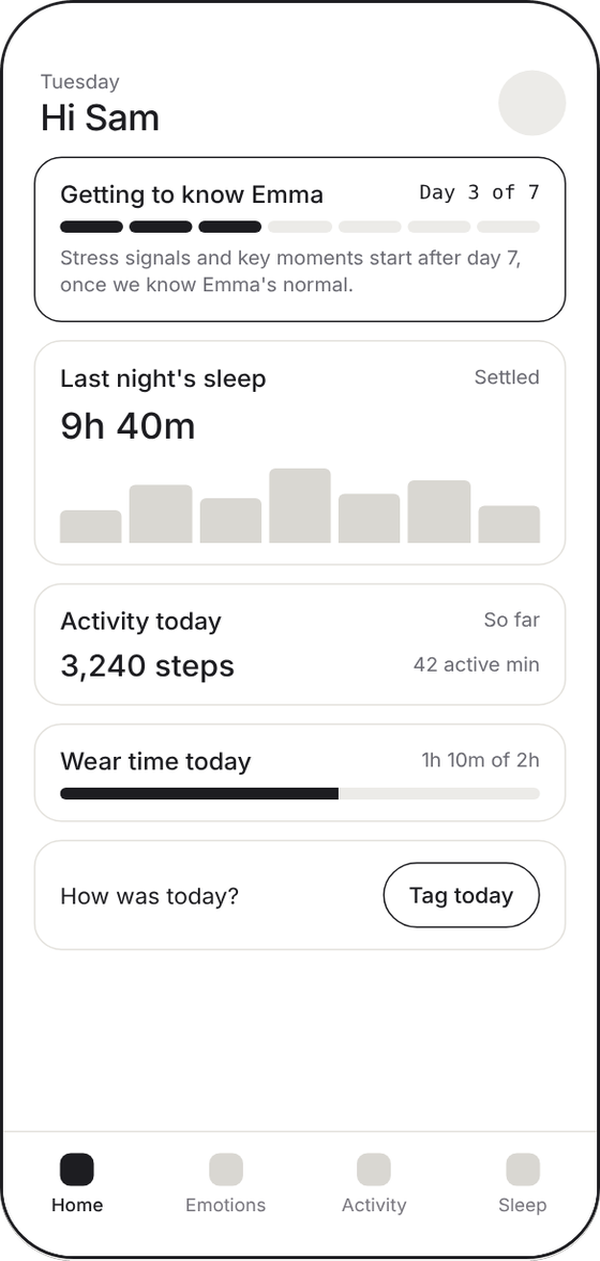
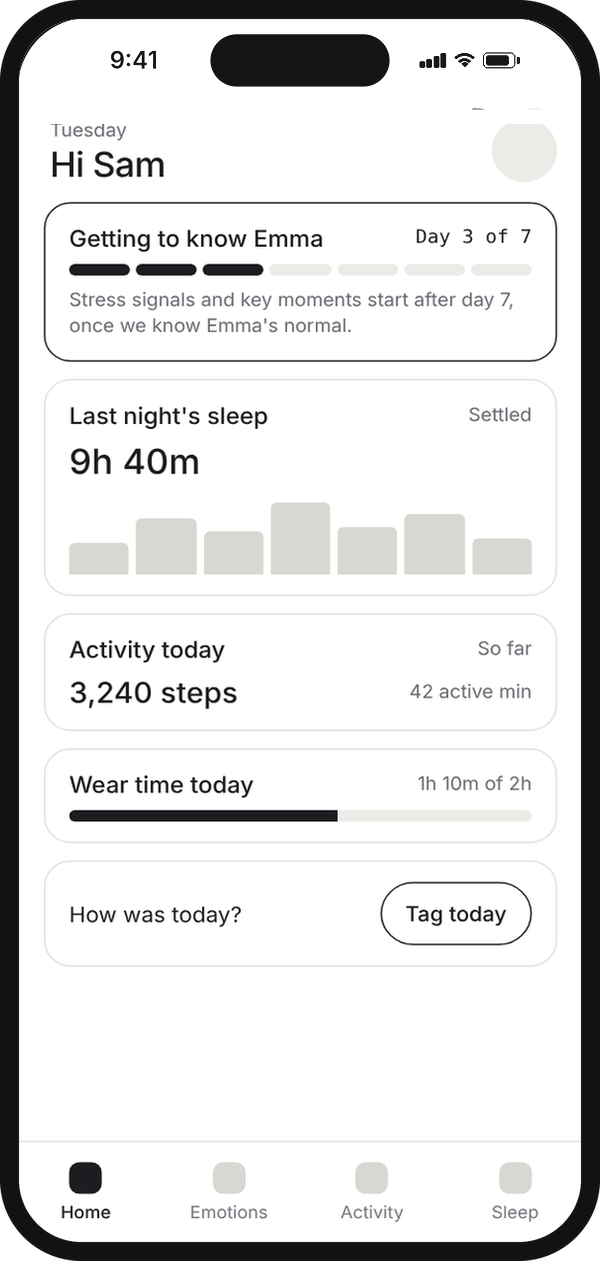
Add files via upload

Changed region(s): [[0.0, 0.0, 1.0, 1.0], [0.63, 0.6804, 0.9, 0.7732], [0.69, 0.5876, 0.9, 0.6495]]

diff --git a/sensori.html b/sensori.html
@@ -445,6 +445,19 @@ body::before { content: ""; position: fixed; inset: 0 0 auto; height: env(safe-a
 }
 .v-phone { width: 100%; justify-self: center; }
 .v-caps { margin-bottom: 4px; }
+/* App chapter: two phones the same size, tops aligned, controls underneath */
+#app.chapter { align-items: start; }
+.compare-wrap, .viewer { max-width: 300px; width: 100%; justify-self: center; }
+.viewer { display: flex; flex-direction: column; gap: 14px; }
+.viewer .v-phone { order: 1; max-width: none; }
+.viewer .v-side { order: 2; display: grid; gap: 10px; }
+.v-tabs { justify-content: center; }
+.v-tabs button { padding: 8px 12px; font-size: 13px; }
+.v-caps p { text-align: center; min-height: 2.8em; font-size: 14px; }
+.cmp-labels { align-items: baseline; font-size: 13px; }
+.cmp-labels em { font-style: normal; color: var(--ink); font-weight: 500; }
+.cmp-line::after { width: 36px; height: 36px; margin: -18px 0 0 -18px; }
+.cmp-line::before { content: "‹ ›"; position: absolute; top: 50%; left: 50%; transform: translate(-50%, -52%); z-index: 1; color: var(--fg); font: 600 15px/1 var(--body); letter-spacing: 3px; white-space: nowrap; padding-left: 3px; }
 </style>
 </head>
 <body>
@@ -527,7 +540,7 @@ body::before { content: ""; position: fixed; inset: 0 0 auto; height: env(safe-a
 
       <section id="app" class="chapter">
         <h2>From wireframe to finished app</h2>
-        <div class="compare-wrap"><div class="compare" style="--pos:50%"><img src="images/sensori/m-home.png" width="600" height="1261" alt="Home, finished"><div class="cmp-top"><img src="images/sensori/wf/hm-01-compare.png" width="600" height="1261" alt="Home, wireframe"></div><span class="cmp-line" aria-hidden="true"></span><input type="range" min="0" max="100" value="50" aria-label="Compare the wireframe with the finished screen"></div><div class="cmp-labels"><span>Wireframe</span><span>Finished</span></div></div>
+        <div class="compare-wrap"><div class="compare" style="--pos:50%"><img src="images/sensori/m-home.png" width="600" height="1261" alt="Home, finished"><div class="cmp-top"><img src="images/sensori/wf/hm-01-compare.png" width="600" height="1261" alt="Home, wireframe"></div><span class="cmp-line" aria-hidden="true"></span><input type="range" min="0" max="100" value="50" aria-label="Compare the wireframe with the finished screen"></div><div class="cmp-labels"><span>Wireframe</span><em>Drag to compare</em><span>Finished</span></div></div>
         <div class="viewer"><div class="v-side"><div class="v-tabs" role="tablist" aria-label="App screens"><button type="button" role="tab" aria-selected="true" data-i="0">Today</button><button type="button" role="tab" aria-selected="false" data-i="1">Emotions</button><button type="button" role="tab" aria-selected="false" data-i="2">Help now</button><button type="button" role="tab" aria-selected="false" data-i="3">Breathe</button><button type="button" role="tab" aria-selected="false" data-i="4">Sleep</button><button type="button" role="tab" aria-selected="false" data-i="5">Settings</button></div><div class="v-caps" aria-live="polite"><p class="on" data-i="0">How are things going today? The answer, at a glance.</p><p class="" data-i="1">A gentle read of the day, in words like “seems” and “may”.</p><p class="" data-i="2">Two or three ideas to try, and the ones that helped before come first.</p><p class="" data-i="3">Breathing together earns a star that’s never taken away.</p><p class="" data-i="4">Compared with what’s usual for the child, not a target.</p><p class="" data-i="5">One child per account, and data stored only on the parent’s phone.</p></div></div><div class="v-phone"><img src="images/sensori/m-home.png" width="600" height="1261" alt="Today screen" class="on" data-i="0" loading="lazy"><img src="images/sensori/m-emotions.png" width="600" height="1261" alt="Emotions screen" class="" data-i="1" loading="lazy"><img src="images/sensori/m-activities.png" width="600" height="1261" alt="Help now screen" class="" data-i="2" loading="lazy"><img src="images/sensori/m-breathe.png" width="600" height="1261" alt="Breathe screen" class="" data-i="3" loading="lazy"><img src="images/sensori/m-sleep.png" width="600" height="1261" alt="Sleep screen" class="" data-i="4" loading="lazy"><img src="images/sensori/m-settings.png" width="600" height="1261" alt="Settings screen" class="" data-i="5" loading="lazy"></div></div>
       </section>
 
